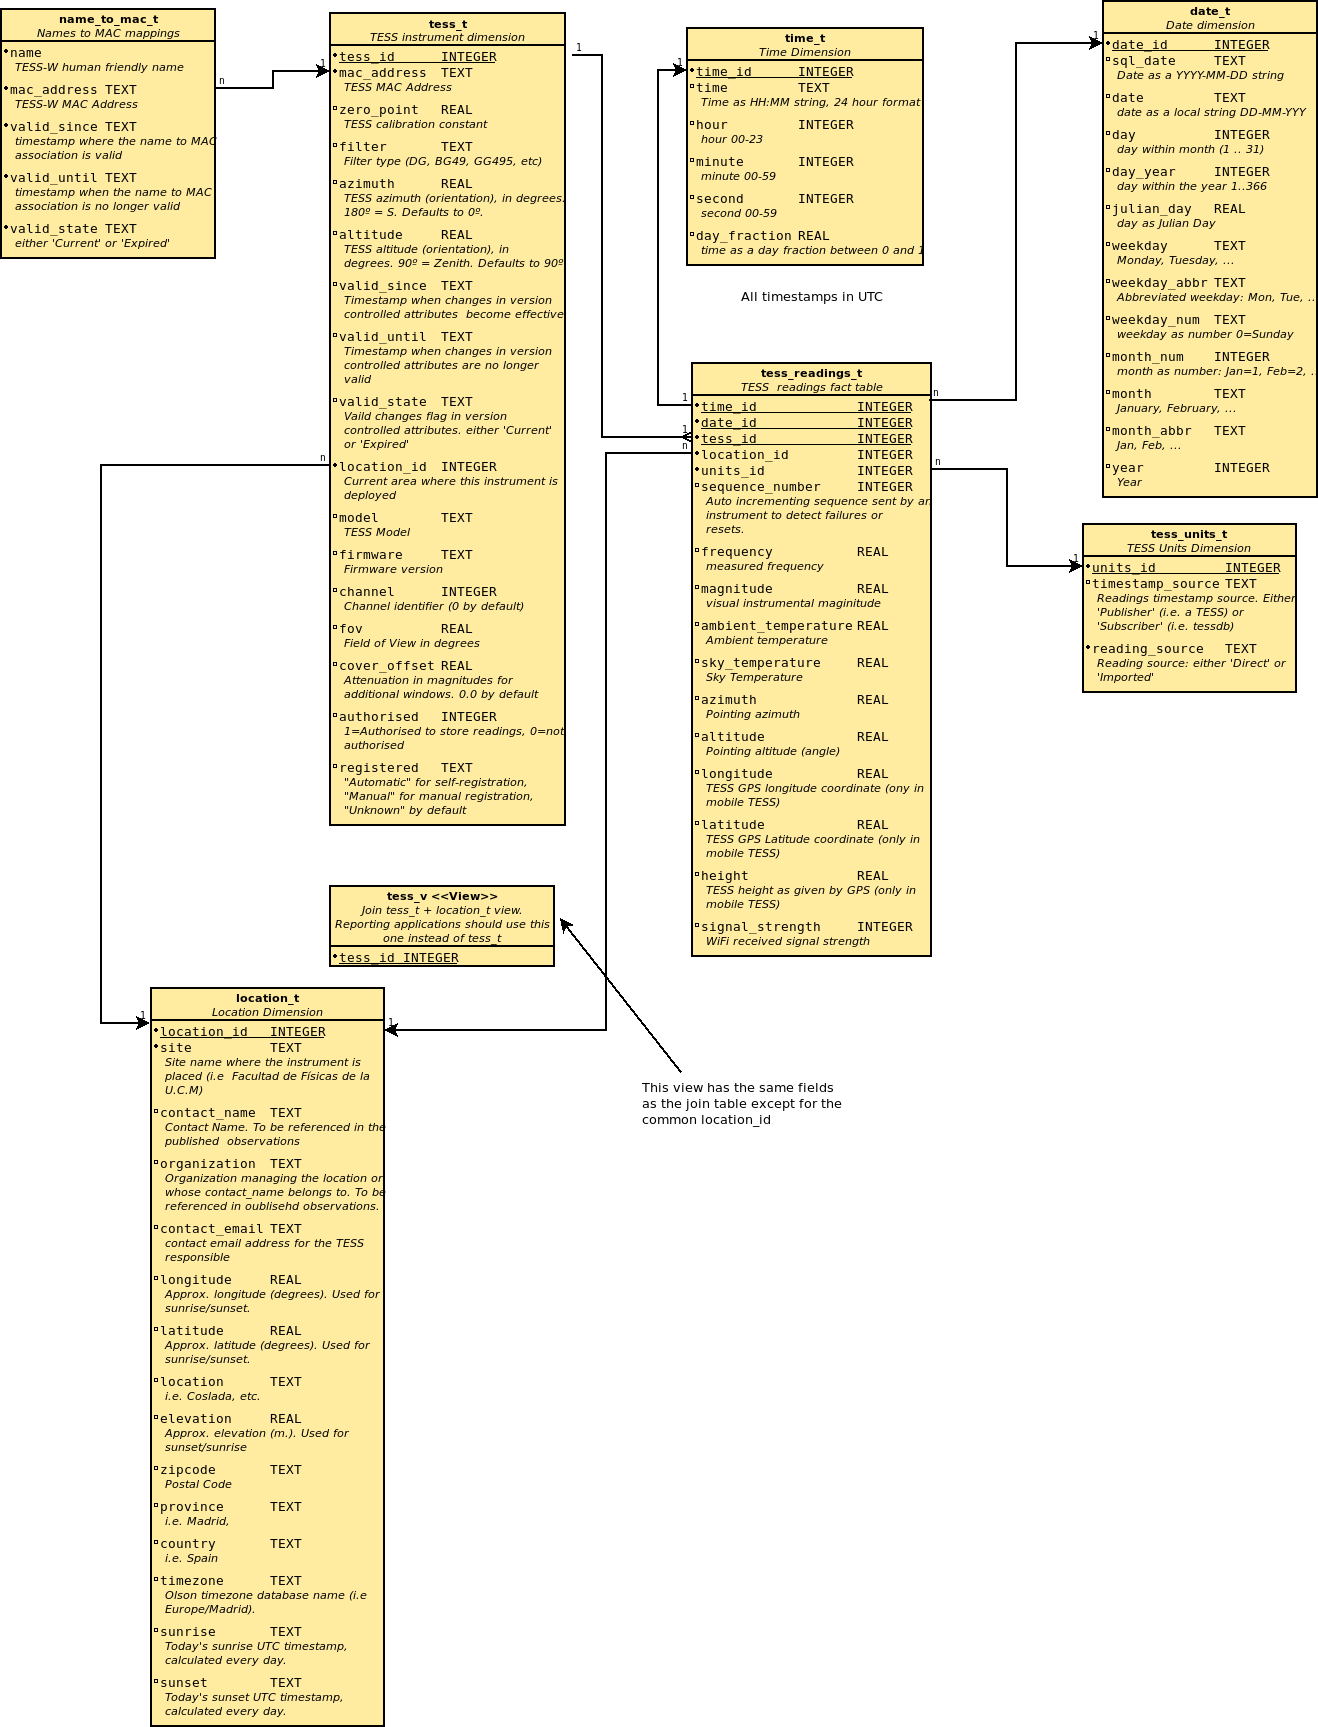
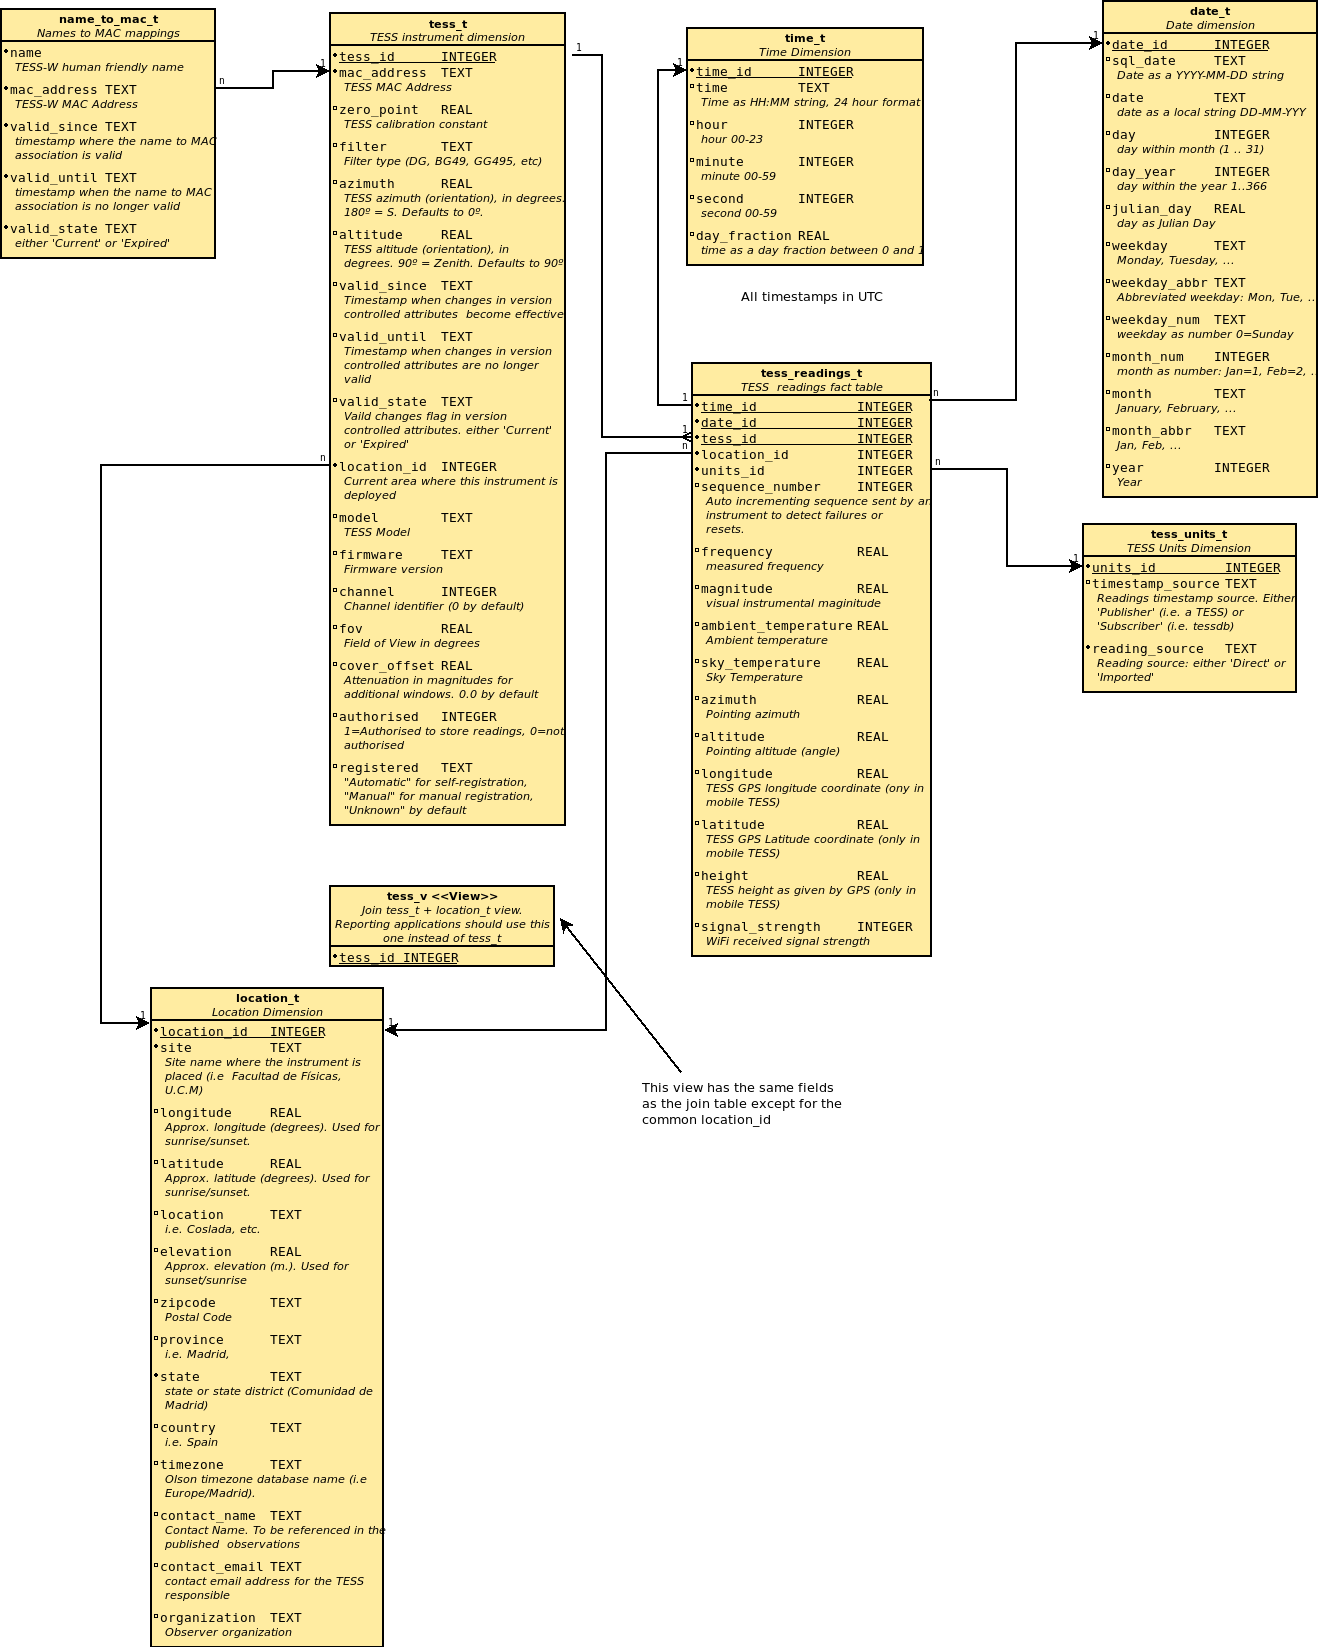
changed location data model to take away sunrise/sunset columns

diff --git a/setup.py b/setup.py
@@ -44,6 +44,7 @@ DATA_FILES  = [
                               'files/usr/local/bin/tessdb_resume',
                               'files/usr/local/bin/tessdb_flush',
                               'files/usr/local/bin/tessdb_restart',
+                              'files/usr/local/bin/tessdb_stop',
                               ]),
   ('/etc/logrotate_astro.d', ['files/etc/logrotate.d/tessdb']),
   ('/var/dbase',             ['files/var/dbase/placeholder.txt']),

diff --git a/tessdb/sqlite3/location.py b/tessdb/sqlite3/location.py
@@ -134,8 +134,6 @@ class Location(Table):
             location                TEXT,
             province                TEXT,
             country                 TEXT,
-            sunrise                 TEXT,
-            sunset                  TEXT,
             contact_name            TEXT,
             timezone                TEXT DEFAULT 'Etc/UTC',
             organization            TEXT
